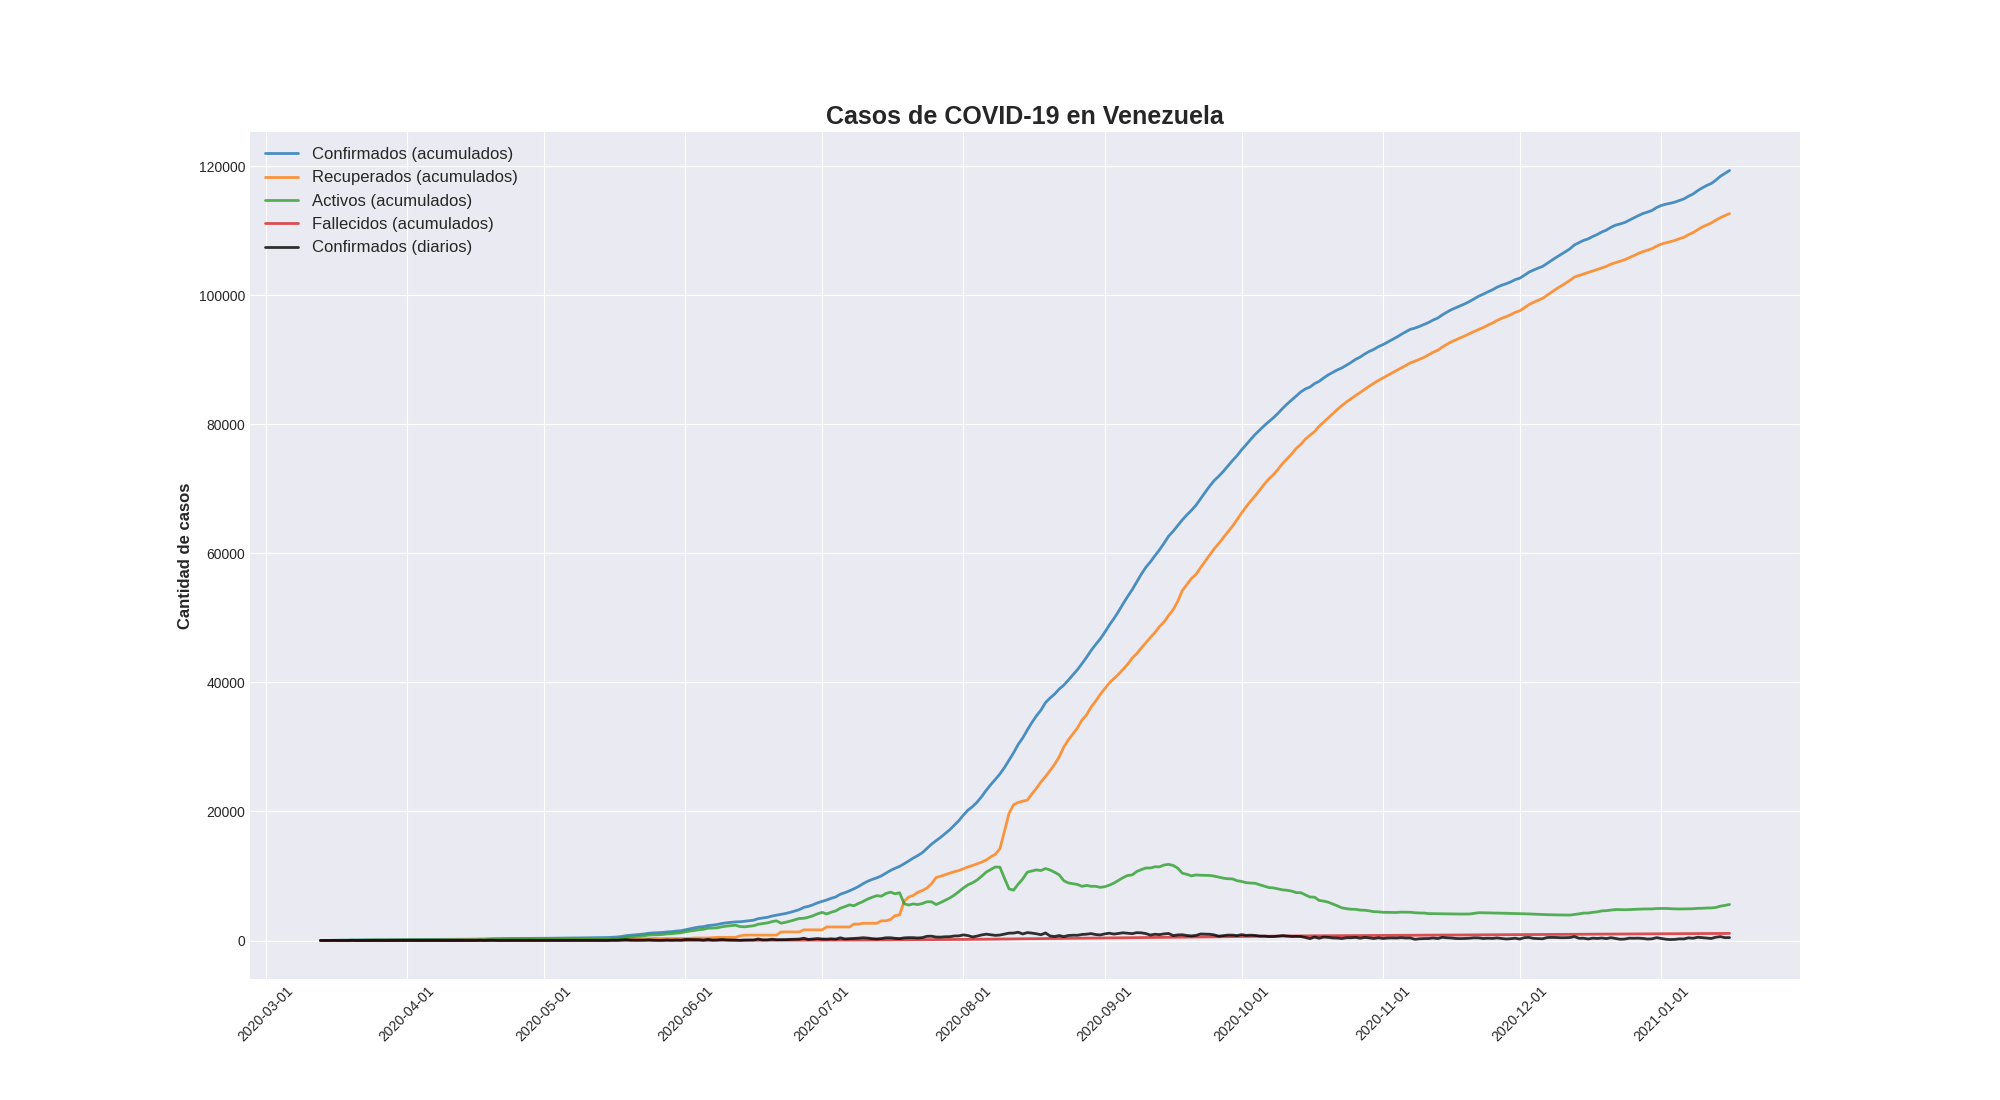
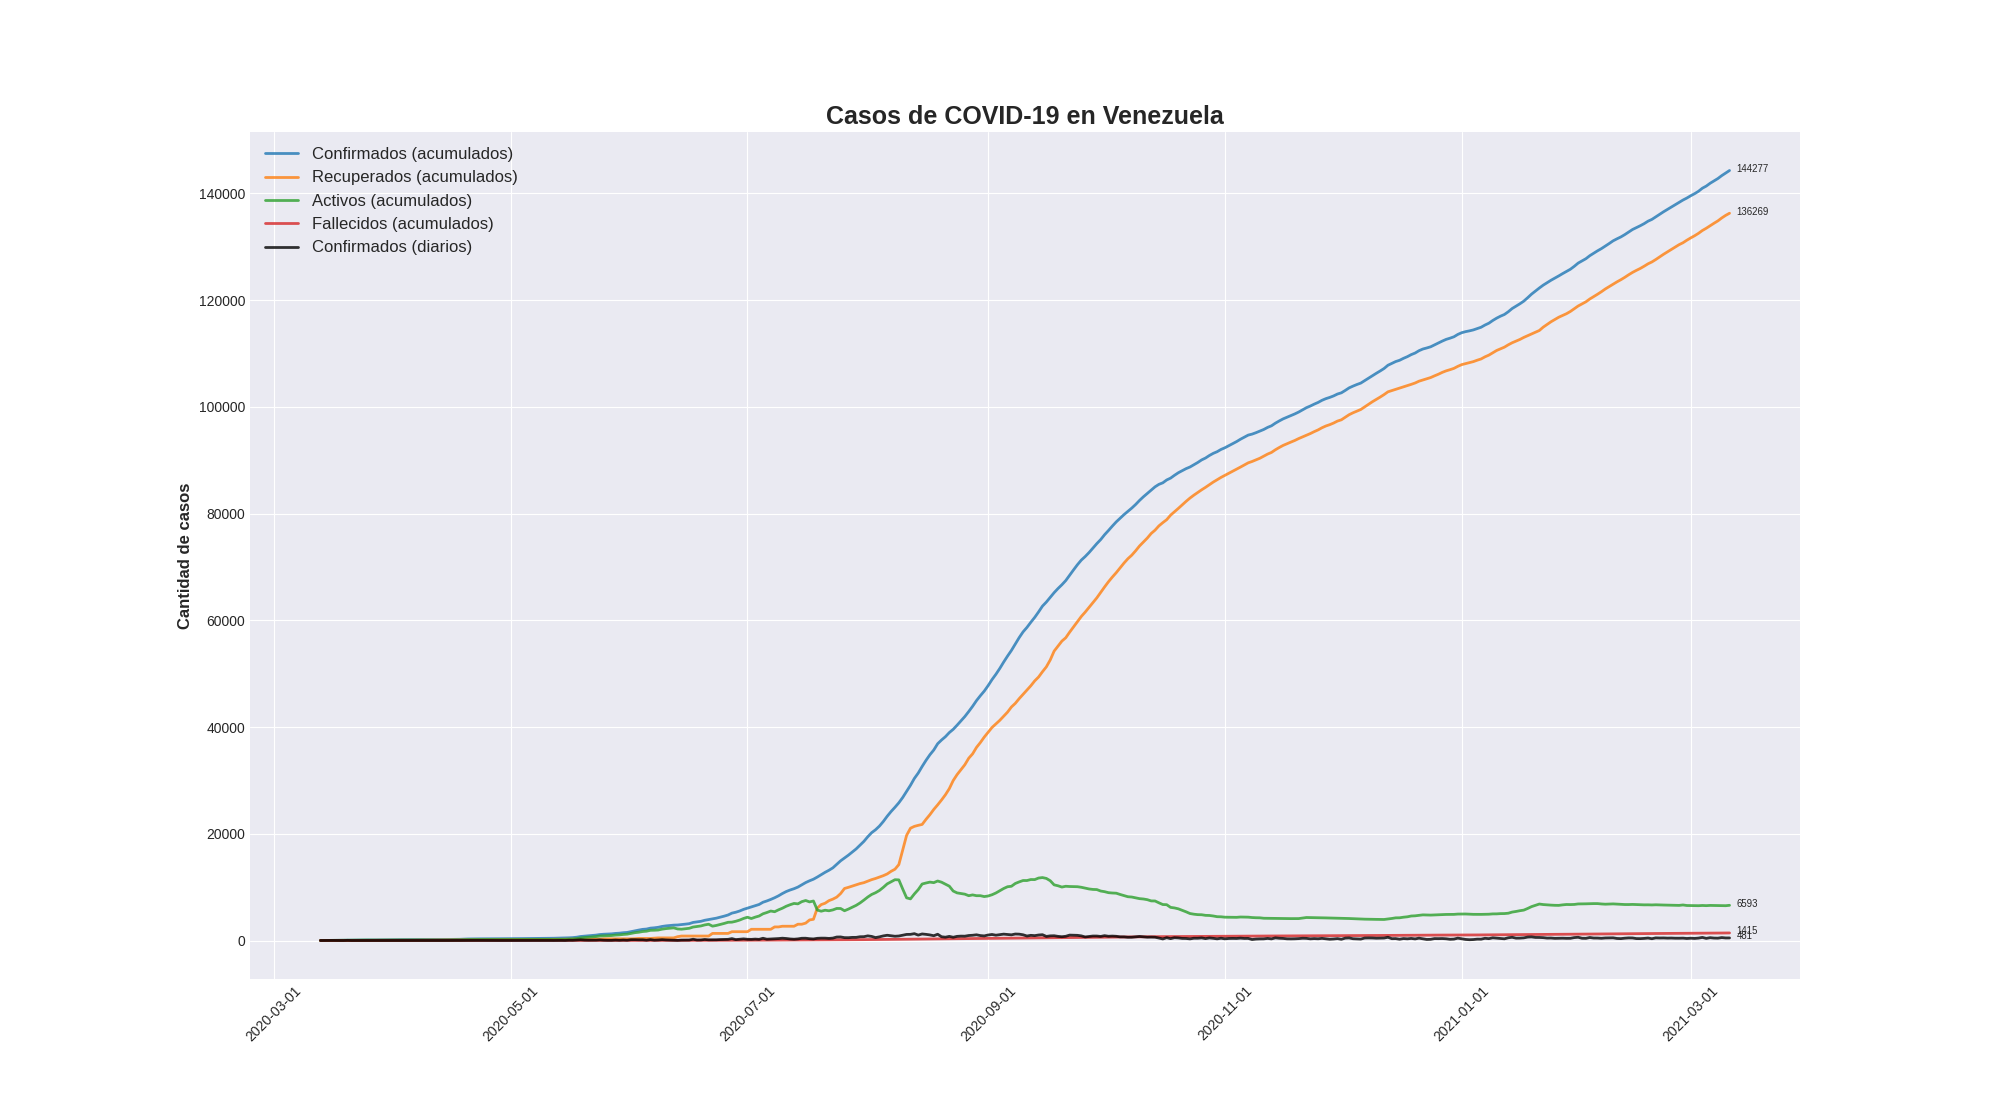
Formato de gráficas

diff --git a/corona-ve.py b/corona-ve.py
@@ -4,7 +4,7 @@
 """
 Visualización del Corona Virus en Venezuela
 utilizando el API de https://covid19.patria.org.ve/api-covid-19-venezuela/
-por David Hernandez Aponte <@davidhdz> 2020
+por David Hernandez Aponte <@davidhdz> 2020-2021
 """
 
 # import seaborn as sns
@@ -14,6 +14,7 @@ from matplotlib.dates import date2num
 import numpy as np
 import pandas as pd
 import matplotlib.cm as cm
+import sys
 
 
 # Dimensión de los gráficos generados
@@ -26,14 +27,14 @@ plt.rcParams['axes.titleweight'] = 'bold'
 
 
 # Función para añadir valores encima de las gráficas
-def show_values_on_bars(axs):
+def show_values_on_bars(axs,maxv):
     def _show_on_single_plot(ax):
         for p in ax.patches:
             _x = p.get_x() + p.get_width() / 2
-            _y = p.get_y() + p.get_height() + .5
+            _y = p.get_y() + p.get_height() + maxv*.01
             value = '{:.0f}'.format(p.get_height())
             if int(value) > 0:
-                ax.text(_x, _y, value, ha="center", size="x-small")
+                ax.text(_x, _y, value, ha="center", size="small")
     if isinstance(axs, np.ndarray):
         for idx, ax in np.ndenumerate(axs):
             _show_on_single_plot(ax)
@@ -41,9 +42,10 @@ def show_values_on_bars(axs):
         _show_on_single_plot(axs)
 
 def show_values_on_lines(x,y):
-        for i,j in zip(x,y):
-            if int(j) > 0:
-                ax.annotate(str(j),xy=(i,j), xytext=(-5,6), textcoords='offset points', size="x-small")
+        #for i,j in zip(x,y):
+            #if int(j) > 0:
+                #ax.annotate(str(j),xy=(i,j), xytext=(-5,6), textcoords='offset points', size="x-small")
+        ax.annotate(str(y),xy=(x,y), xytext=(5,-1), textcoords='offset points', size="x-small")
 
 
 # Carga de datos y generación de Data frames para los gráficos de línea de tiempo
@@ -86,19 +88,20 @@ try:
     fig, ax = plt.subplots(figsize=dims)
     ax.plot(confirmados["Date"], confirmados["Count"],
             '-', label='Confirmados (acumulados)', alpha=0.8)
-    #show_values_on_lines(confirmados["Date"], confirmados["Count"])
+    show_values_on_lines(confirmados["Date"].iloc[-1], confirmados["Count"].iloc[-1])
     ax.plot(recuperados["Date"], recuperados["Count"],
             '-', label='Recuperados (acumulados)', alpha=0.8)
-    #show_values_on_lines(recuperados["Date"], recuperados["Count"])
+    show_values_on_lines(recuperados["Date"].iloc[-1], recuperados["Count"].iloc[-1])
     ax.plot(activos["Date"], activos["Count"],
             '-', label='Activos (acumulados)', alpha=0.8)
-    #show_values_on_lines(activos["Date"], activos["Count"])
+    show_values_on_lines(activos["Date"].iloc[-1], activos["Count"].iloc[-1])
     ax.plot(fallecidos["Date"], fallecidos["Count"],
             '-', label='Fallecidos (acumulados)', alpha=0.8)
-    #show_values_on_lines(fallecidos["Date"], fallecidos["Count"])
+    show_values_on_lines(fallecidos["Date"].iloc[-1], fallecidos["Count"].iloc[-1])
     #ax.bar(nuevos["Date"],nuevos["New_Confirmed"],color='C6')
     ax.plot(nuevos["Date"], nuevos["New_Confirmed"],
             '-', label='Confirmados (diarios)', color='black', alpha=0.8)
+    show_values_on_lines(nuevos["Date"].iloc[-1], nuevos["New_Confirmed"].iloc[-1])
     plt.xticks(rotation=45, ha='center')
     plt.xlabel("")
     plt.ylabel("Cantidad de casos", fontsize=12, weight='bold')
@@ -135,33 +138,33 @@ try:
     plt.savefig("fig2.png")
 
 
-#    # Gráfico de casos en Venezuela
-#    fig, ((ax1, ax2, ax3, ax4)) = plt.subplots(
-#        4, figsize=dims, sharex=True, sharey=True)
-#    fig.tight_layout(pad=4.0)
-#    ax1.bar(confirmados["Date"], confirmados["Count"], color='C0', alpha=0.8)
-#    ax1.set_title('Confirmados')
-#    #show_values_on_bars(ax1)
-#    ax2.bar(recuperados["Date"], recuperados["Count"], color='C1', alpha=0.8)
-#    ax2.set_title('Recuperados')
-#    #show_values_on_bars(ax2)
-#    ax3.bar(activos["Date"], activos["Count"], color='C2', alpha=0.8)
-#    ax3.set_title('Activos')
-#    #show_values_on_bars(ax3)
-#    ax4.bar(fallecidos["Date"], fallecidos["Count"], color='C3', alpha=0.8)
-#    ax4.set_title('Fallecidos')
-#    #show_values_on_bars(ax4)
-#    plt.xticks(rotation=45, ha='right')
-#    plt.suptitle('Casos de COVID-19 en Venezuela (acumulados)',
-#                fontsize=15, weight='bold')
-#    for ax in fig.get_axes():
-#        ax.set(
-#            xlabel='',
-#            ylabel='Cantidad de casos',
-#            xticks=(nuevos['Date']),
-#        )
-#        ax.label_outer()
-#    plt.savefig("fig3.png")
+    #    # Gráfico de casos en Venezuela
+    #    fig, ((ax1, ax2, ax3, ax4)) = plt.subplots(
+    #        4, figsize=dims, sharex=True, sharey=True)
+    #    fig.tight_layout(pad=4.0)
+    #    ax1.bar(confirmados["Date"], confirmados["Count"], color='C0', alpha=0.8)
+    #    ax1.set_title('Confirmados')
+    #    #show_values_on_bars(ax1)
+    #    ax2.bar(recuperados["Date"], recuperados["Count"], color='C1', alpha=0.8)
+    #    ax2.set_title('Recuperados')
+    #    #show_values_on_bars(ax2)
+    #    ax3.bar(activos["Date"], activos["Count"], color='C2', alpha=0.8)
+    #    ax3.set_title('Activos')
+    #    #show_values_on_bars(ax3)
+    #    ax4.bar(fallecidos["Date"], fallecidos["Count"], color='C3', alpha=0.8)
+    #    ax4.set_title('Fallecidos')
+    #    #show_values_on_bars(ax4)
+    #    plt.xticks(rotation=45, ha='right')
+    #    plt.suptitle('Casos de COVID-19 en Venezuela (acumulados)',
+    #                fontsize=15, weight='bold')
+    #    for ax in fig.get_axes():
+    #        ax.set(
+    #            xlabel='',
+    #            ylabel='Cantidad de casos',
+    #            xticks=(nuevos['Date']),
+    #        )
+    #        ax.label_outer()
+    #    plt.savefig("fig3.png")
 
 
     # Gráfico de distribución por género de casos en Venezuela
@@ -179,7 +182,8 @@ try:
     # Gráfico de distribución por edades de casos en Venezuela
     fig, ax = plt.subplots(figsize=dims)
     ax.bar(df_ages["Range"], df_ages["Count"], color=['C0', 'C1', 'C2', 'C3', 'C4', 'C5', 'C6', 'C7', 'C8', 'C9'], alpha=0.8)
-    #show_values_on_bars(ax)
+    maxv=max(df_ages["Count"])
+    show_values_on_bars(ax,maxv)
     plt.xlabel("Rango de edad", fontsize=12, weight='bold')
     plt.ylabel("Cantidad de casos", fontsize=12, weight='bold')
     plt.title("Distribución de casos por edad", fontsize=18, weight='bold')
@@ -191,9 +195,8 @@ try:
     colors = cm.rainbow(np.linspace(1, 0, len(df_states["State"])))
     df_states.sort_values(by=['Count'], inplace=True, ascending=False)
     ax.bar(df_states["State"], df_states["Count"], color=colors, alpha=0.8)
-
-                                                    
-    #show_values_on_bars(ax)
+    maxv=max(df_states["Count"])
+    show_values_on_bars(ax,maxv)
     plt.xlabel("Entidad", fontsize=12, weight='bold')
     plt.ylabel("Cantidad de casos", fontsize=12, weight='bold')
     plt.title("Distribución de casos por estado", fontsize=18, weight='bold')
@@ -225,4 +228,4 @@ try:
     print()
 
 except:
-    print("Ha ocurrido un error. Intente de nuevo.")
+    print("Ha ocurrido un error:", sys.exc_info()[0])
